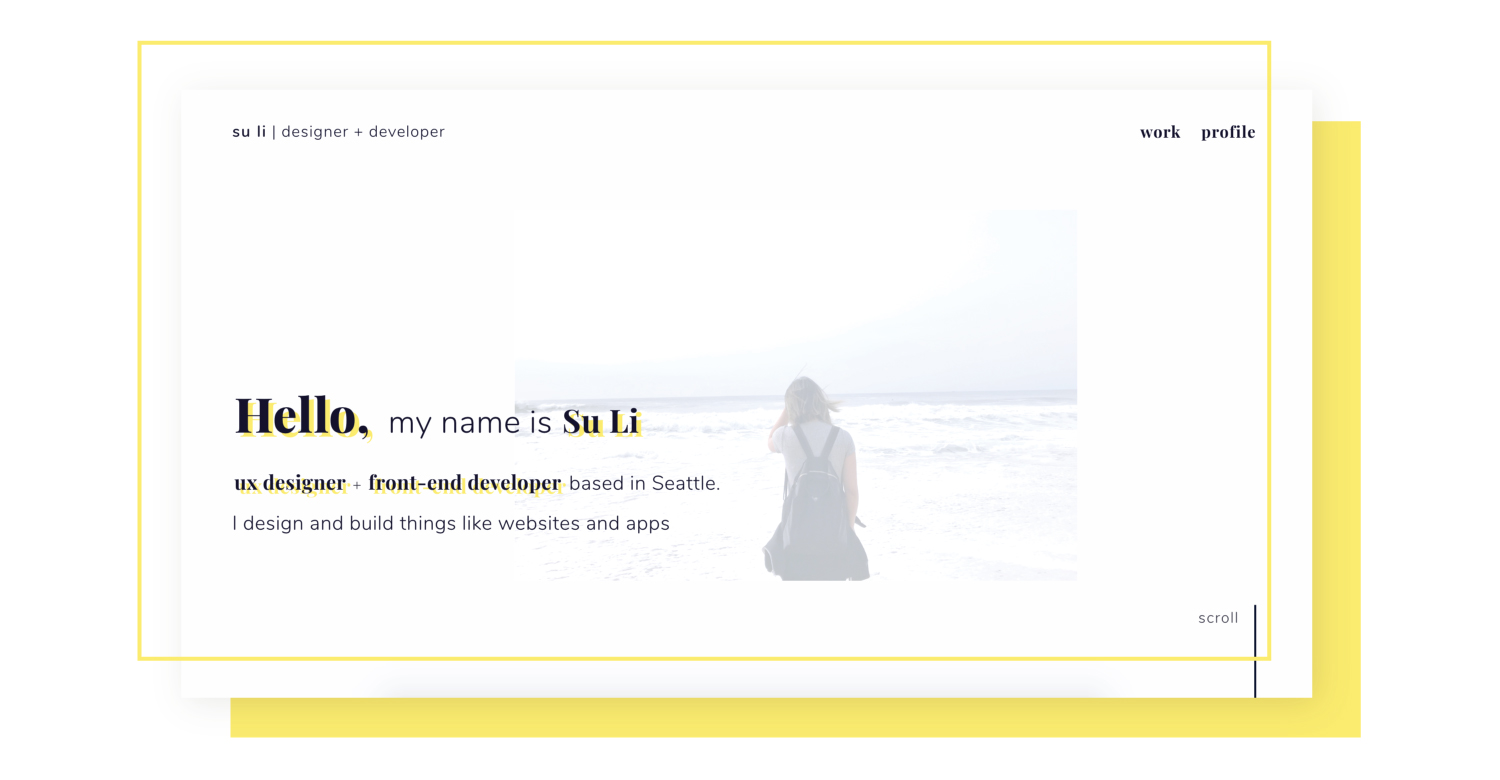
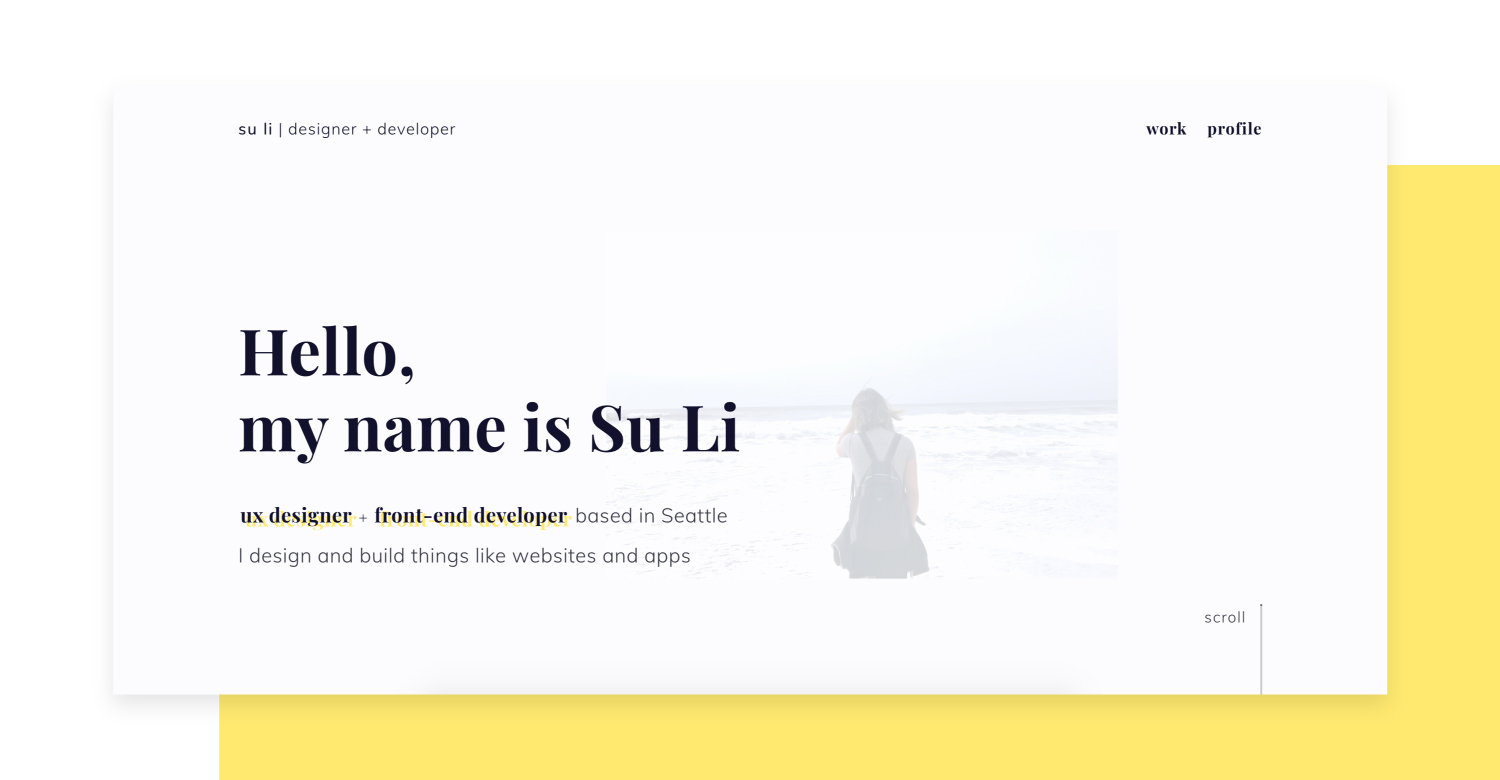
updated landing page and meta image

diff --git a/src/style/landing.scss b/src/style/landing.scss
@@ -22,7 +22,7 @@
             transition: all 0.6s;
             background-size: cover;
             background-position: center;
-            filter: contrast(110%) brightness(1.2) opacity(0.28);
+            filter: contrast(110%) brightness(1.2) opacity(0.2);
         }
     }
     .home-landing{
@@ -36,18 +36,19 @@
         .container{
             display: flex;
             flex-direction: column;
-            padding-top: 20vh;
+            padding-top: 16vh;
             div{
-                flex-direction: row;
-                margin-bottom: 1rem;
+                flex-direction: column;
+                margin-bottom: 2rem;
             }
             h4{
                 font-weight: $textReg;
                 color: $textLight;
                 line-height: 2;
             }
-            h2{
-                display: inline-block;
+            h1{
+                font-size: 4rem;
+                line-height: 1.2;
                 @extend .serifFont;
             }
         }
@@ -69,13 +70,12 @@
         .home-landing{
             .container{
                 div{
-                    flex-direction: column;
                     padding-top: 8vh;
                 }
-                padding-top: 12vh;
-                h2{
-                    margin-left: 0%!important;
-                    display: block;
+                padding-top: 8vh;
+                h1{
+                    font-size: 2.8rem;
+                    line-height: 1.4;
                 }
             }
         }

diff --git a/src/style/index.scss b/src/style/index.scss
@@ -44,6 +44,7 @@ body {
 	justify-content: center;
 	align-items: center;
 	overflow-x: hidden;
+
 }
 
 * {
@@ -61,7 +62,6 @@ a{
 }
 .underline{
 	transition: all 0.2s;
-	cursor: pointer;
 	color: $secondary!important;
 	font-weight: $textMed!important;
 	text-shadow: 0.6rem 0.6rem transparent;
@@ -212,7 +212,6 @@ p, span{
 		align-items: center;
 		margin: 24px 0px;
 		h1{
-			cursor: default;
 			margin: 0%;
 			margin-top: -5rem;
 			font-size: 20rem;
@@ -311,14 +310,4 @@ p, span{
 	100%{
 		transform: translateX(2rem);
 	}
-}
-
-.circle{
-	background-color: $primary;
-	width: 10px;
-	height: 10px;
-	box-sizing: content-box;
-	border-radius: 50%;
-	margin: 0 0 0 0.5rem;
-	display: inline-block;
 }

diff --git a/src/routes/Main.js b/src/routes/Main.js
@@ -29,8 +29,8 @@ export default function Home(props) {
 			<div className='home-landing'>
 				<div className='container' style={{transform: `translateY(${movement}%)`}}>
 						<div>
-							<Fade delay={1000}><h2>Hello,</h2></Fade>
-							<Fade delay={1250}><h2 style={{marginLeft: "0.5rem"}}> my name is Su Li<div className='circle'/></h2></Fade>
+							<Fade delay={1000}><h1>Hello,</h1></Fade>
+							<Fade delay={1250}><h1> my name is Su Li</h1></Fade>
 						</div>
 						<Fade duration={1000} delay={1750}>
 							<h4>

diff --git a/src/style/proj.scss b/src/style/proj.scss
@@ -162,7 +162,7 @@
     }
     .video-intro{
         margin-bottom: 16vh;
-        padding: 0 20vw;
+        padding: 0 16vw;
         display: flex;
         align-items: center;
         flex-direction: column!important;
@@ -205,6 +205,7 @@
             font-size: 1.8rem;
             padding-right: 33%;
             color: $textLight;
+            @extend .serifFont;
         }
     }
     .text-image{

diff --git a/src/style/work.scss b/src/style/work.scss
@@ -128,7 +128,6 @@
             img{
                 width: 24px;
                 opacity: 0.8;
-                cursor: pointer;
                 transition: opacity 0.2s;
                 &:hover{
                     opacity: 0.4;

diff --git a/src/style/scroll.scss b/src/style/scroll.scss
@@ -7,7 +7,6 @@ $line-height-abs: -16vh;
     position: absolute;
     bottom: 0;
     right: 10vw;
-    cursor: pointer;
     .scroll {
       width: 2px;
       height: $line-height;

diff --git a/src/style/menu.scss b/src/style/menu.scss
@@ -10,7 +10,6 @@
     transition: all 0.4s;
     .container{
         a{
-            cursor: pointer;
             letter-spacing: 0.05rem;
             color: $textDark;
         }
